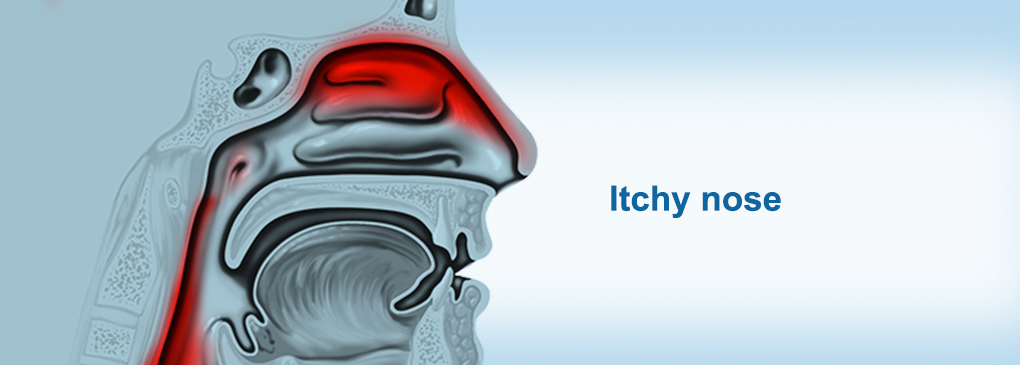
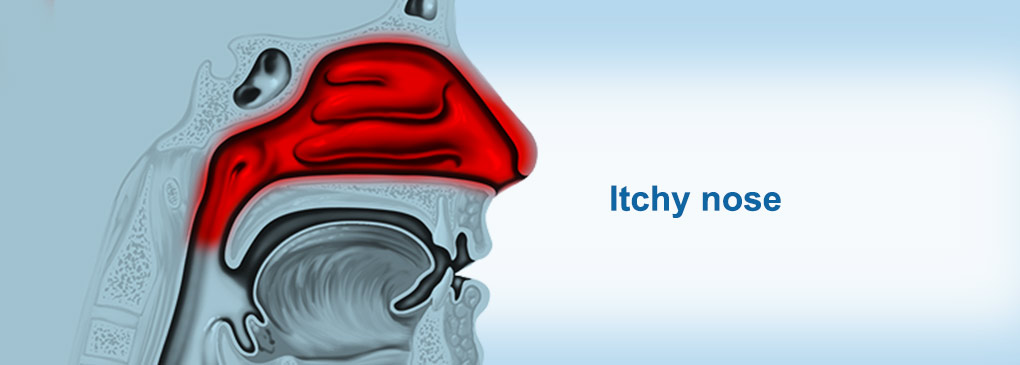
MNWR-49

Changed region(s): [[0.1216, 0.2411, 0.5471, 1.0], [0.3039, 0.0603, 0.4255, 0.1205], [0.4255, 0.1205, 0.4559, 0.1507]]

diff --git a/app/js/sections/whats-a-clucker.js b/app/js/sections/whats-a-clucker.js
@@ -39,7 +39,7 @@ $(window).bind("resize", function(){
     }
 });
 
-var mariasHotSpots = [{x:"17.1%",y:"28.30%",id:"itchy"},{x:"40.78%",y:"10.98%",id:"nasal"},{x:"37.74%",y:"32.84%",id:"congestion"}];
+var mariasHotSpots = [{x:"17.1%",y:"36.30%",id:"itchy"},{x:"40.78%",y:"10.98%",id:"nasal"},{x:"37.74%",y:"32.84%",id:"congestion"}];
 var marksHotSpots = [{x:"37.64%",y:"29.84%",id:"nasal"},{x:"25.49%",y:"47.30%",id:"histamine"}];
 var karasHotSpots = [{x:"27.94%",y:"28.30%",id:"congestion"},{x:"40.19%",y:"20%",id:"inflamation"}];
 var liamsHotSpots = [{x:"17.1%",y:"28.30%",id:"itchy"},{x:"40.78%",y:"10.98%",id:"nasal"},{x:"37.74%",y:"32.84%",id:"congestion"}];
